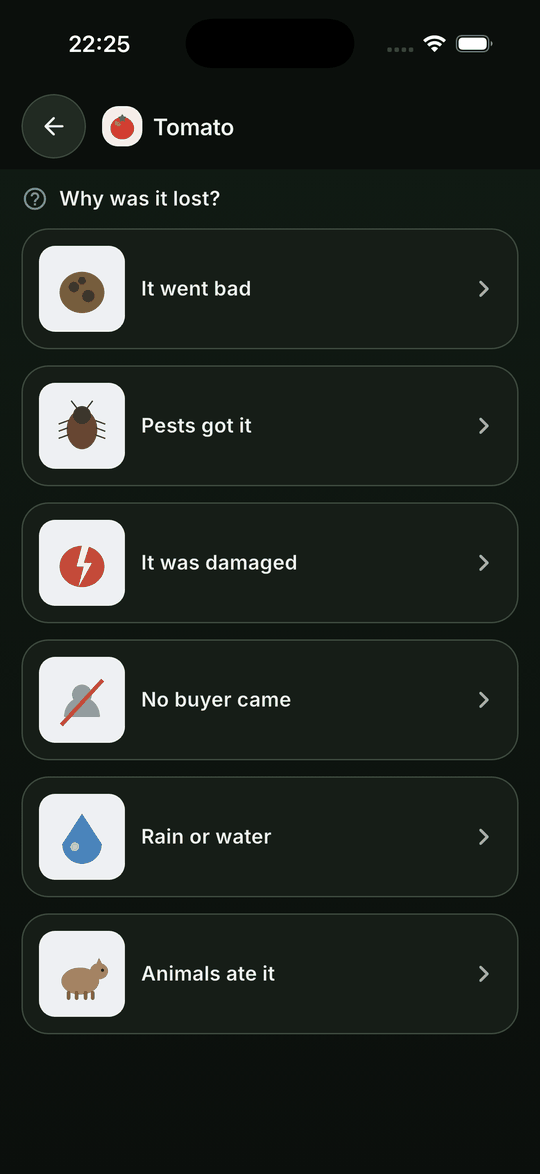
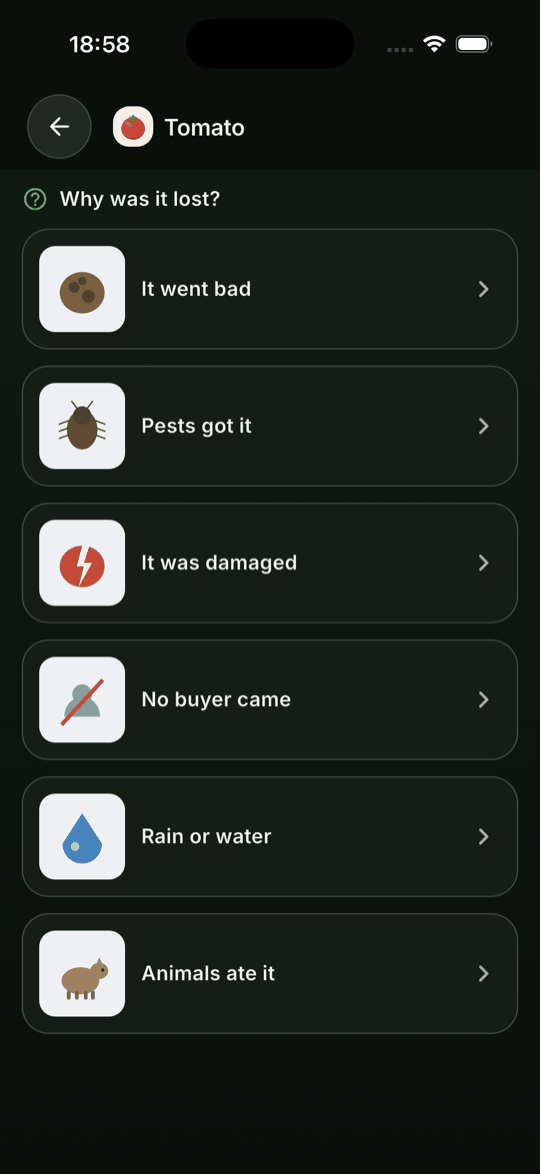
Retake the screenshots and warn when they fall behind the app

diff --git a/docs/JOURNAL.md b/docs/JOURNAL.md
@@ -1803,3 +1803,30 @@ cards are 20 — and that the type scale it published named nothing above 22,
 while three screens set a typed figure at 32 or 34. Those readouts are
 deliberate and are now written down, with the reason: on those screens the
 figure being entered is not part of the screen, it is the screen.
+
+## Every screenshot in the repository was a feature behind
+
+Thirteen of them, all captured before the daylight switch existed. That switch
+had been added to three app bars and appeared in none of the pictures. Two more
+commits had changed the diagnosis screen and the touch targets since. The
+documentation gate was green throughout, because what it checked was that every
+screenshot is tracked and that every screenshot is referenced — both true of a
+picture of a different app.
+
+Twelve retaken on the simulator: the language picker, the crop grid, the
+quantity screen, the storage screen, the harvest list in both themes, the two
+closing sheets, and the four money screens. The thirteenth, the diagnosis
+result, is not reachable from the app on purpose and is left alone.
+
+`make doc-check` now compares the last commit touching `docs/screenshots` with
+the last commit touching `app/lib` and says how far behind the pictures are.
+**A warning, not a failure**: most commits under `app/lib` change nothing you can
+see, and a gate that goes red on every one of them is a gate people learn to run
+with `--no-verify`. What it can do is refuse to let the drift go unmentioned,
+which is the part that failed here — nobody was wrong about the screenshots,
+nobody was told.
+
+`make screenshot N=<name>` exists now too, and `scripts/screenshot.sh` deletes
+the target before writing it. `simctl` runs in its own sandbox and is
+intermittently refused permission to overwrite a file it did not create; the
+script swallowed that into a bare exit 1, which cost ten minutes to attribute.

diff --git a/CHANGELOG.md b/CHANGELOG.md
@@ -10,6 +10,11 @@ Entries say *why*, not just what.
 
 ### Changed
 
+- Twelve of the thirteen screenshots retaken. Every one of them predated the
+  daylight switch, which by then appeared in three app bars and no picture. The
+  documentation gate now says how many commits of `app/lib` the screenshots are
+  behind — a warning, because most commits change nothing you can see.
+
 - **Every touch target in the app now meets the 56 dp floor.** Six controls were
   drawn at 34, 44 or 48 dp with hit areas to match — one of them the back
   button, which is on every screen. The floor moved inside `Pressable`, where
